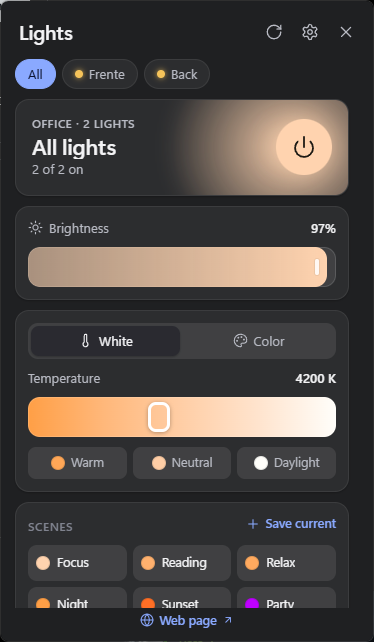
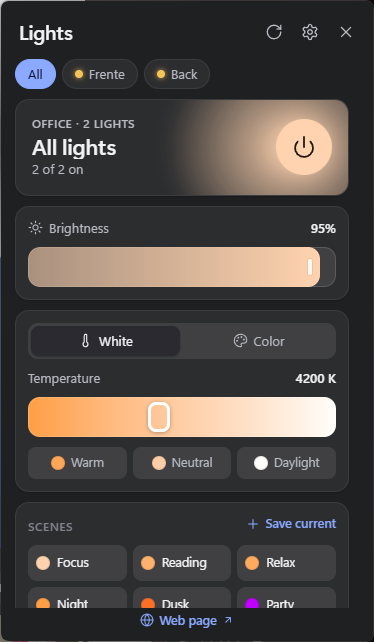
Prepare for public release: CI, release workflow, security policy
- CI (Windows): Svelte/TypeScript checks, UI build, cargo fmt --check,
  clippy with warnings as errors, tests, and probe checks on every push
  to main and pull request.
- Release workflow: a vX.Y.Z tag (checked against tauri.conf.json) or a
  manual run builds with tauri-action and creates a draft release with
  the NSIS installer and the portable .exe.
- Dependabot: monthly grouped updates for npm, both Cargo crates and
  GitHub Actions.
- SECURITY.md with private reporting instructions.
- README: badges, Install from Releases (with SmartScreen note),
  contributing notes; docs/DEVELOPMENT.md: release steps.
- Fresh README screenshots (current scene names); rustfmt the probe.

diff --git a/tools/tapo-probe/src/main.rs b/tools/tapo-probe/src/main.rs
@@ -160,7 +160,11 @@ async fn stress_bulb(ip: String, user: String, pass: String, duration: Duration)
     let started = Instant::now();
     let mut i = 0u64;
     while started.elapsed() < duration {
-        let value = if i.is_multiple_of(2) { nudged } else { original };
+        let value = if i.is_multiple_of(2) {
+            nudged
+        } else {
+            original
+        };
         i += 1;
         let t = Instant::now();
         match tokio::time::timeout(Duration::from_secs(2), handler.set_brightness(value)).await {

diff --git a/README.md b/README.md
@@ -1,5 +1,9 @@
 # TapOnLights
 
+[![CI](https://github.com/jnettome/TapOnLights/actions/workflows/ci.yml/badge.svg)](https://github.com/jnettome/TapOnLights/actions/workflows/ci.yml)
+[![Release](https://img.shields.io/github/v/release/jnettome/TapOnLights?include_prereleases)](https://github.com/jnettome/TapOnLights/releases)
+[![License: MIT](https://img.shields.io/badge/license-MIT-blue)](LICENSE)
+
 A fast, local tray app for TP-Link Tapo smart bulbs on Windows. Click the tray icon, drag a slider, and the light follows, without the phone app and without the cloud.
 
 <p align="center">
@@ -39,7 +43,12 @@ Using another Tapo bulb? Run the [probe](#check-your-bulbs-with-the-probe) and o
 
 ## Install
 
-TapOnLights is built from source for now (see [Building from source](#building-from-source)). The build produces both an installer (per-user, no admin rights) and a standalone `.exe`.
+Download the latest version from [Releases](https://github.com/jnettome/TapOnLights/releases):
+
+- **`TapOnLights_<version>_x64-setup.exe`:** the installer. It installs for your user only and needs no admin rights.
+- **The plain `.exe`:** a portable copy you can run from anywhere.
+
+The app isn't code-signed yet, so Windows SmartScreen may warn the first time you run it: choose *More info* › *Run anyway*. You can also [build it yourself](#building-from-source).
 
 ## Getting started
 
@@ -199,7 +208,7 @@ The password is asked for without echo, or read from `TAPO_PASSWORD`. `--write` 
 
 ## Contributing
 
-Issues and pull requests are welcome. For device problems, include the probe output (it contains no credentials). Before opening a pull request, run `npm run check`, `cargo test` and `cargo clippy`.
+Issues and pull requests are welcome. For device problems, include the probe output (it contains no credentials). CI runs the type checks, `cargo fmt --check`, `cargo clippy` (warnings fail the build) and `cargo test` on every pull request, so run those locally first. Report security problems privately; see [SECURITY.md](SECURITY.md).
 
 ## Acknowledgements
 

diff --git a/docs/DEVELOPMENT.md b/docs/DEVELOPMENT.md
@@ -51,6 +51,19 @@ Design decisions behind TapOnLights, what has been verified on real hardware, an
 - The Tapo password is in Credential Manager under target `TapOnLights` (UTF-16, via `keyring` 3 with `Entry::new_with_target`).
 - **Migration from the earlier name "Tapo Desktop":** on first run, settings and the credential (including the python-keyring layouts `Tapo Desktop` and `<user>@Tapo Desktop`) are copied over. The originals are left in place.
 
+## Releasing
+
+1. Bump the version in three places: `package.json`, `src-tauri/Cargo.toml` and `src-tauri/tauri.conf.json`. Then run `npm install` and `cargo check`, so the lock files pick up the new version.
+2. Commit, then tag the commit and push the tag:
+   ```sh
+   git tag v0.3.0
+   git push origin v0.3.0
+   ```
+3. The **Release** workflow (`.github/workflows/release.yml`) checks that the tag matches `tauri.conf.json`, builds on Windows, and creates a **draft** release with the NSIS installer and the portable `.exe`. You can also start it by hand from the Actions tab; it then uses the version in `tauri.conf.json`.
+4. Review the draft, add what changed, and publish it.
+
+Builds aren't code-signed. Signing would need a certificate stored as a repository secret; see Tauri's Windows code-signing guide.
+
 ## Verified on hardware
 
 On two L530 bulbs (hardware 2.0, firmware 1.4.4, Third-Party Compatibility on):

diff --git a/SECURITY.md b/SECURITY.md
@@ -1,0 +1,27 @@
+# Security policy
+
+TapOnLights stores your Tapo password in Windows Credential Manager and can serve a web page and API on your network, so security reports are very welcome.
+
+## Reporting a vulnerability
+
+Please report it privately through GitHub: open the **Security** tab of this repository and choose **Report a vulnerability**. Don't open a public issue for security problems.
+
+Include what you found, how to reproduce it, and the app version. You'll get a reply as soon as possible.
+
+## Scope
+
+In scope:
+
+- the app (`src-tauri/`, `src/`), including the optional web server and its API;
+- how credentials and settings are stored;
+- the `tools/tapo-probe` utility.
+
+Out of scope:
+
+- the bulbs' own protocol and firmware: report those to TP-Link;
+- the `tapo` library: report those to [its project](https://github.com/mihai-dinculescu/tapo).
+
+## Things to know
+
+- The web page is plain HTTP and is off by default. With network access on, use it only on networks you trust and set a password.
+- Release builds aren't code-signed yet.
